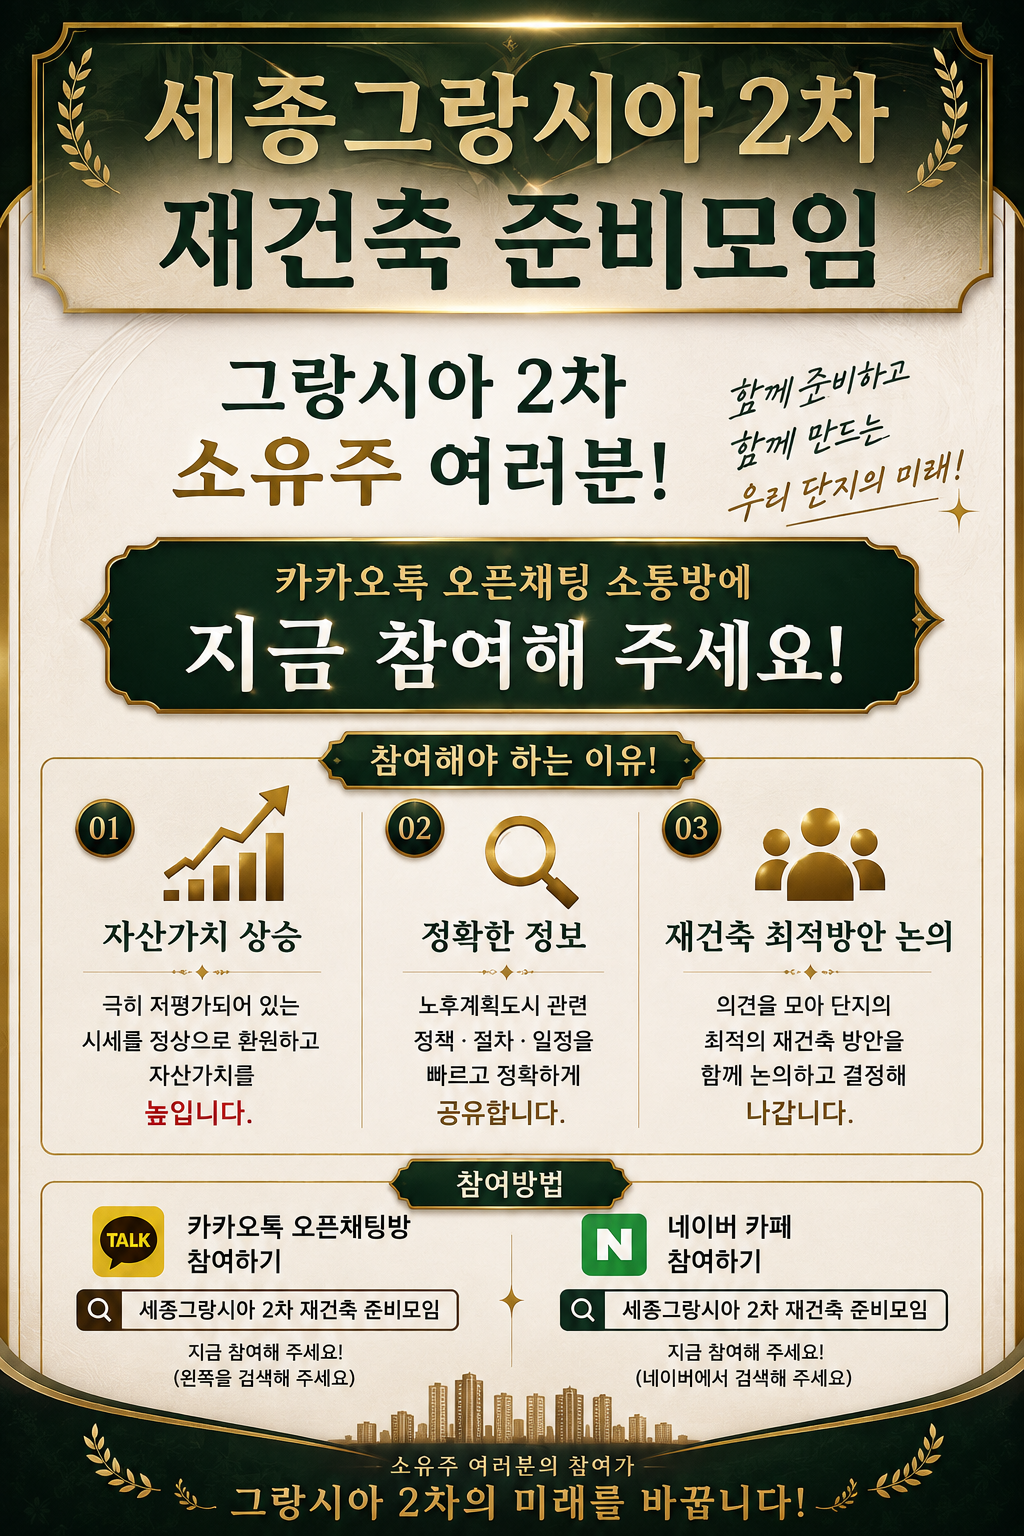
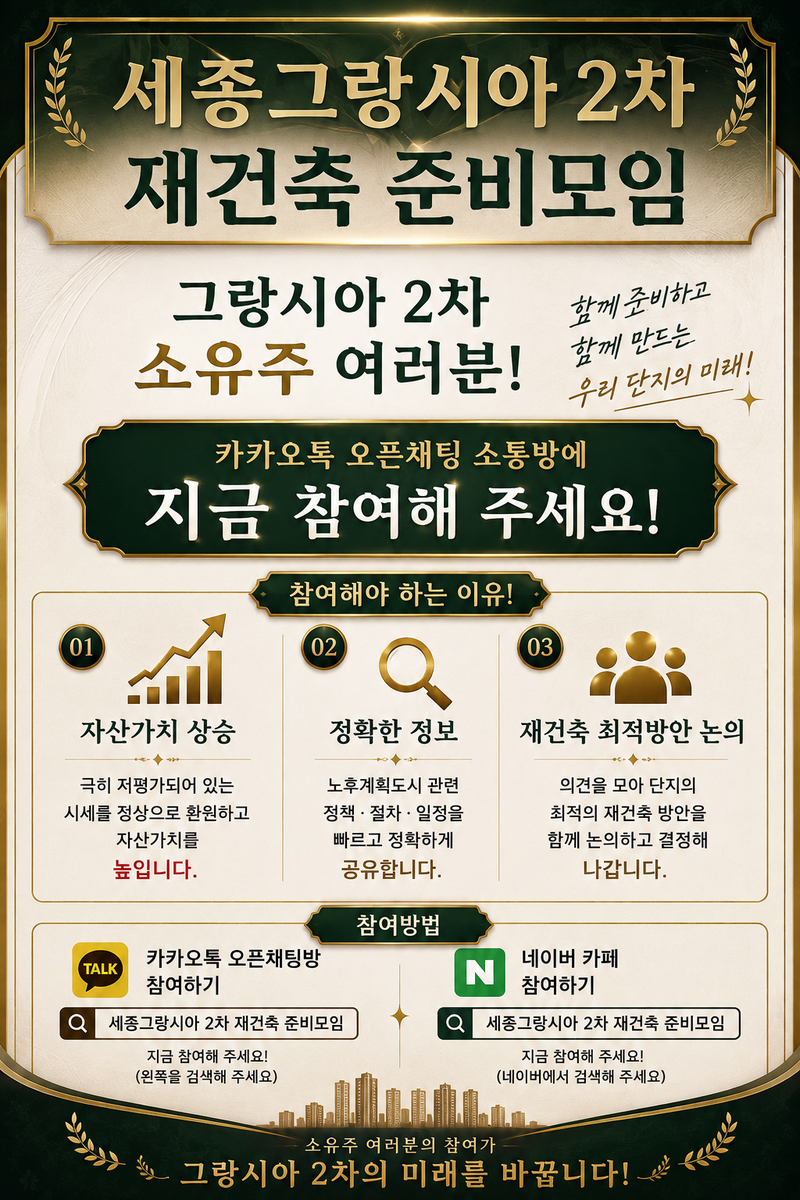
v96: 메인 페이지 첫 이미지 구 promo.png로 되돌리기 (1.36MB로 최적화)

diff --git a/index.html b/index.html
@@ -428,7 +428,7 @@
 
 <article class="wrap"><div class="promo-banner" id="sec-promo">
     <a href="https://cafe.naver.com/pink9mp4i" target="_blank" rel="noopener" class="promo-link">
-      <img src="promo-cafe.jpg" alt="세종그랑시아 통합재건축 추진 - 영통구역 선도지구, 4단지부터 함께 준비합시다" class="promo-img" loading="lazy">
+      <img src="promo.png" alt="세종그랑시아 통합재건축 추진 - 영통구역 선도지구, 4단지부터 함께 준비합시다" class="promo-img" loading="lazy">
       <div class="promo-cta">
         <span class="promo-cta-arrow">→</span>
         <span>네이버 카페 바로 가기</span>

diff --git a/_restore_promo.py b/_restore_promo.py
@@ -1,0 +1,20 @@
+
+from PIL import Image
+import os
+
+src = r"C:\Users\glabr\.cloudflared\sites\sejong\promo.png"
+print(f"Original size: {os.path.getsize(src):,} bytes")
+
+img = Image.open(src)
+print(f"Dimensions: {img.size}")
+
+# Resize to 800px wide (web-friendly)
+target_w = 800
+ratio = target_w / img.size[0]
+target_h = int(img.size[1] * ratio)
+img2 = img.resize((target_w, target_h), Image.LANCZOS)
+print(f"Resized to: {img2.size}")
+
+# Save as optimized PNG
+img2.save(src, 'PNG', optimize=True, dpi=(300, 300))
+print(f"Optimized PNG: {os.path.getsize(src):,} bytes")
